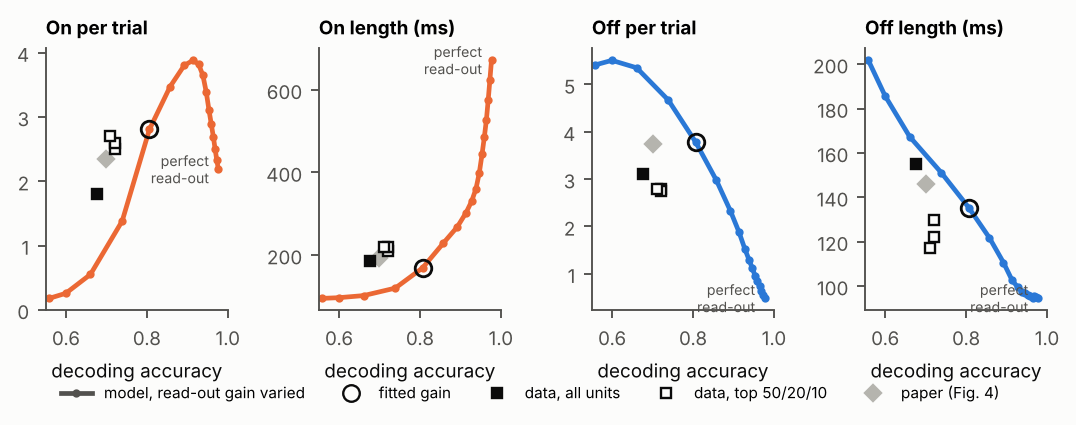
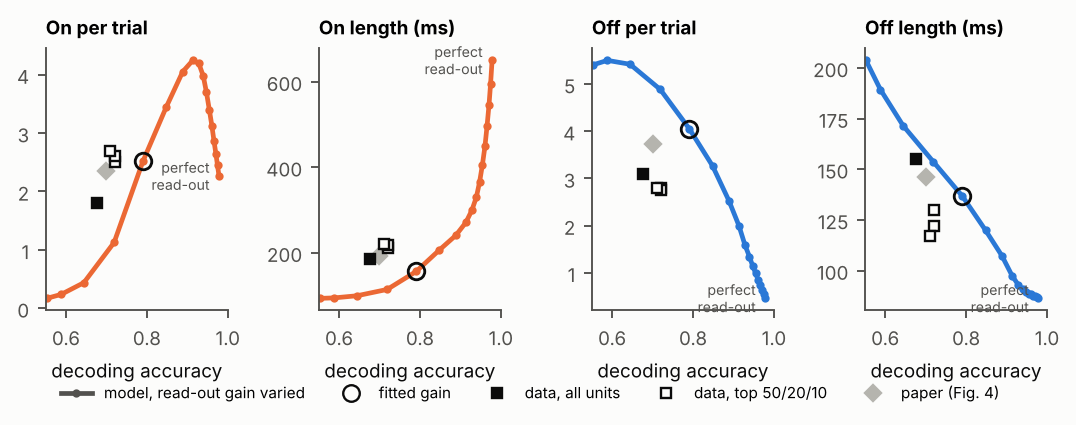
Dynamics-only fits (fitted gain; read-out-free) vs paper on fresh seeds; read-out curve with final dynamics
Claude-Session: https://claude.ai/code/session_01DWA8oLxpZgubPZ4A6kb3Lh

diff --git a/scripts/mf_figures.py b/scripts/mf_figures.py
@@ -247,5 +247,58 @@ def fig_readout(best='data/mf_fit_rates/run0/best.json', out='data/mf_readout_cu
         print({k: round(v, 3) for k, v in r.items()})
 
 
+def fig_dynamics_fits(free='data/mf_fit_rates', silence='data/mf_fit_silence', out='data/mf_dyn_fresh.json'):
+    """Best dynamics-only fits (free read-out gain; read-out-free) vs the paper, on fresh seeds."""
+    import glob
+    from meanfield import rate_states as RS
+    best = {}
+    for name, d in (('free', free), ('silence', silence)):
+        runs = [json.load(open(f)) for f in sorted(glob.glob(os.path.join(d, 'run*', 'best.json')))]
+        best[name] = dict(runs=runs, best=min(runs, key=lambda r: r['loss']))
+    res = {}
+    for name, ev in (('free', RS.evaluate), ('silence', RS.evaluate_silence)):
+        th = best[name]['best']['theta']
+        s = ev(th, n_trials=2112, seed=99)
+        res[name] = dict(theta=th, on_dur=s['on_dur'].tolist(), off_dur=s['off_dur'].tolist(),
+                         **{k: s[k] for k in ('n_on', 'n_off', 'on_mean', 'off_mean', 'on_median', 'off_median', 'acc', 'mem')},
+                         loss=F.loss(s, keep_terms=F.TERMS_STATES),
+                         spread={k: [r['theta'][k] for r in best[name]['runs']] for k in th},
+                         run_loss=[r['loss'] for r in best[name]['runs']])
+    json.dump(res, open(out, 'w'), indent=1)
+    tgt = F.target_hist()
+    fig, ax = plt.subplots(2, 2, figsize=(6.4, 4.4), gridspec_kw=dict(hspace=0.75, wspace=0.3))
+    titles = dict(free='Fit 1: dynamics + read-out gain (gain fitted)', silence='Fit 2: read-out-free (network states)')
+    for i, name in enumerate(('free', 'silence')):
+        r = res[name]
+        for j, (key, col, lab) in enumerate((('on', C_ON, 'On'), ('off', C_OFF, 'Off'))):
+            a = ax[i, j]
+            a.bar(F.EDGES[:-1], tgt[key][:-1] / 20, width=18, align='edge', color=col, alpha=0.35, lw=0, label='paper')
+            dur = np.array(r[f'{key}_dur'])
+            h = F.model_hist(dur)[:-1] / 20
+            a.step(np.r_[F.EDGES[:-1], F.EDGES[-1]], np.r_[h, h[-1]], where='post', color=INK, lw=1.6, label='model')
+            a.set_xlim(0, 620)
+            a.text(0.97, 0.95, f'{r["n_" + key]:.2f}/trial (paper {F.TARGET["n_" + key]:.2f})\n'
+                               f'mean {r[key + "_mean"]:.0f} ms (paper {F.TARGET[key + "_mean"]:.0f})',
+                   transform=a.transAxes, ha='right', va='top', fontsize=6.5, color=INK2)
+            a.set_title(f'{lab} states', fontsize=8, loc='left')
+            if i == 1:
+                a.set_xlabel('state length (ms)')
+            if j == 0:
+                a.set_ylabel('probability / ms')
+        th = r['theta']
+        g = f' · gain {10 ** th["log10_c"]:.3f} z/Hz' if 'log10_c' in th else ''
+        ax[i, 0].text(0, 1.32, f'{titles[name]} — loss {r["loss"]:.1f}, memory {r["mem"]:.1%} (fresh seeds)',
+                      transform=ax[i, 0].transAxes, fontsize=7.5, weight='bold', color=INK)
+        ax[i, 0].text(0, 1.18, f'τ_N {th["tau_N"]:.0f} ms · w_s {th["w_s"]:.2f} · dips {th["dip_rate"]:.1f}/s, mean '
+                               f'{th["dip_mean"]:.0f} ms, k {th["dip_shape"]:.1f}, −{100 * th["dip_depth"]:.0f}% · σ {th["sigma"]:.3f}{g}',
+                      transform=ax[i, 0].transAxes, fontsize=6.5, color=INK2)
+    ax[0, 1].legend(fontsize=6.5, loc='center right')
+    f = os.path.join(OUT, 'fig6_dynamics_fits.png')
+    fig.savefig(f, dpi=170, bbox_inches='tight')
+    print('wrote', f)
+    for name in res:
+        print(name, {k: (round(v, 3) if isinstance(v, float) else v) for k, v in res[name].items() if k not in ('on_dur', 'off_dur', 'theta')})
+
+
 if __name__ == '__main__':
-    {'mechanism': fig_mechanism, 'surrogate': fig_surrogate, 'fit': fig_fit, 'sensitivity': fig_sensitivity, 'readout': fig_readout}[sys.argv[1]](*sys.argv[2:])
+    {'mechanism': fig_mechanism, 'surrogate': fig_surrogate, 'fit': fig_fit, 'sensitivity': fig_sensitivity, 'readout': fig_readout, 'dynamics': fig_dynamics_fits}[sys.argv[1]](*sys.argv[2:])
